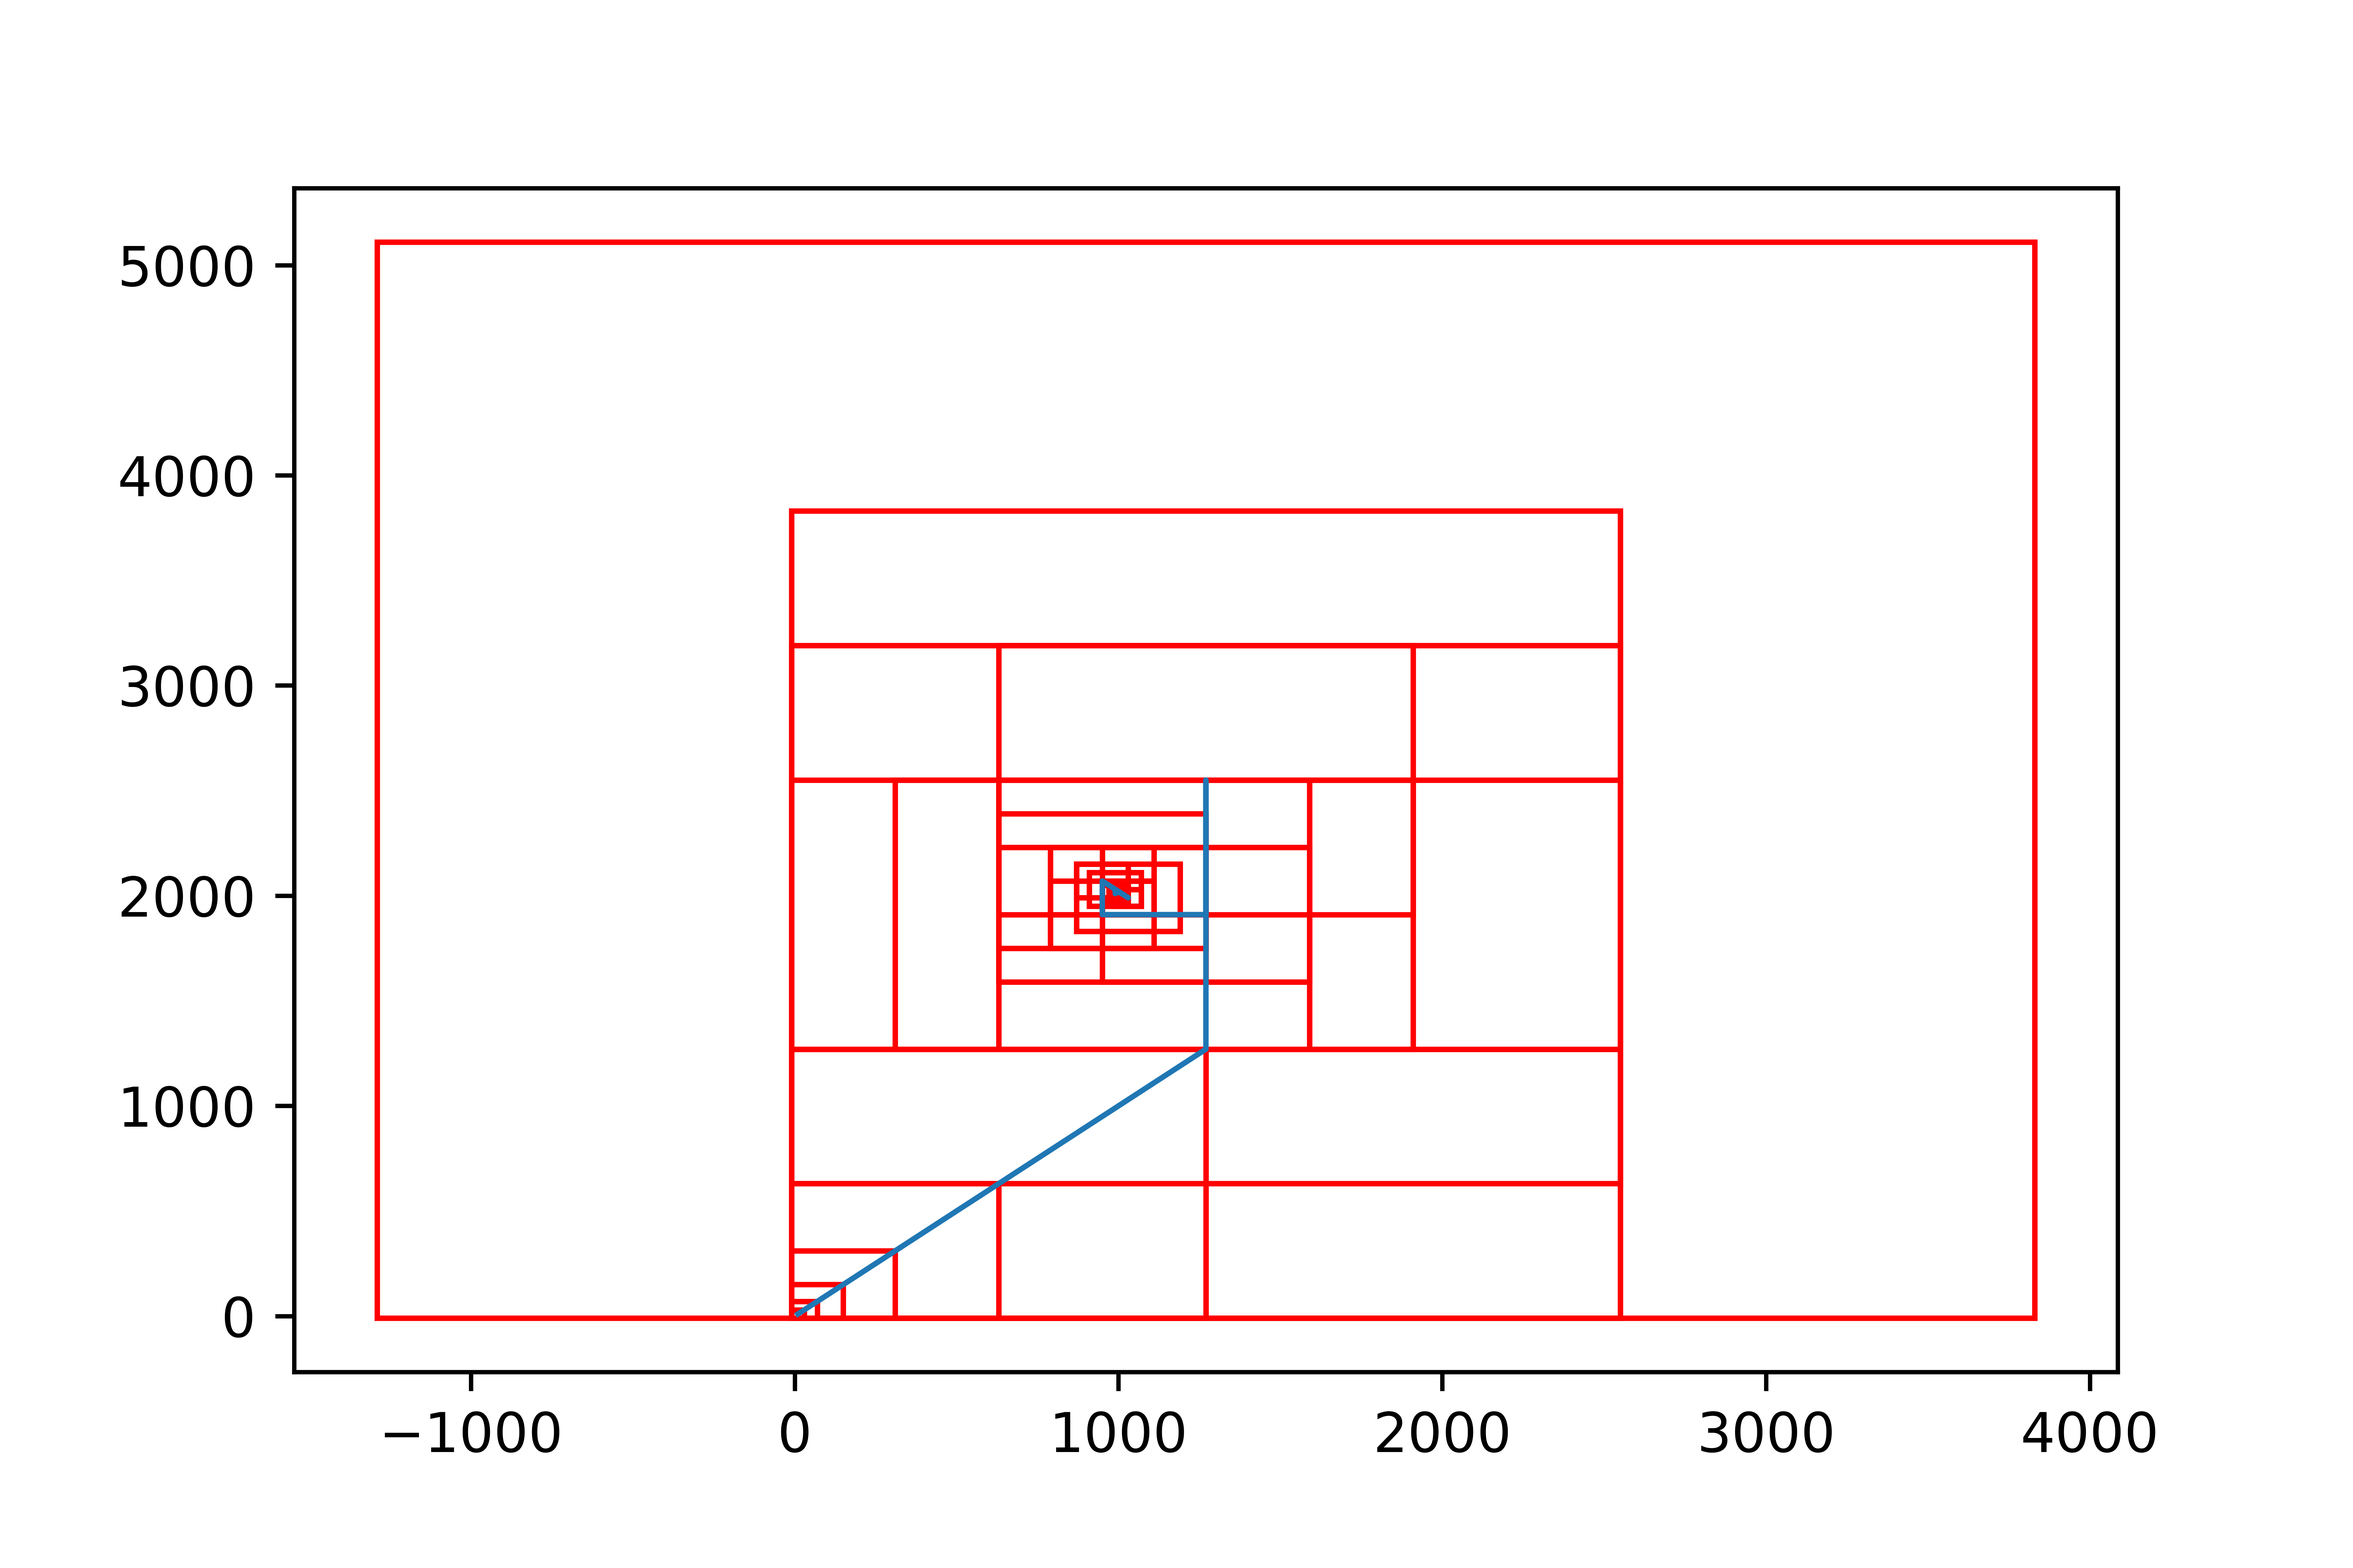
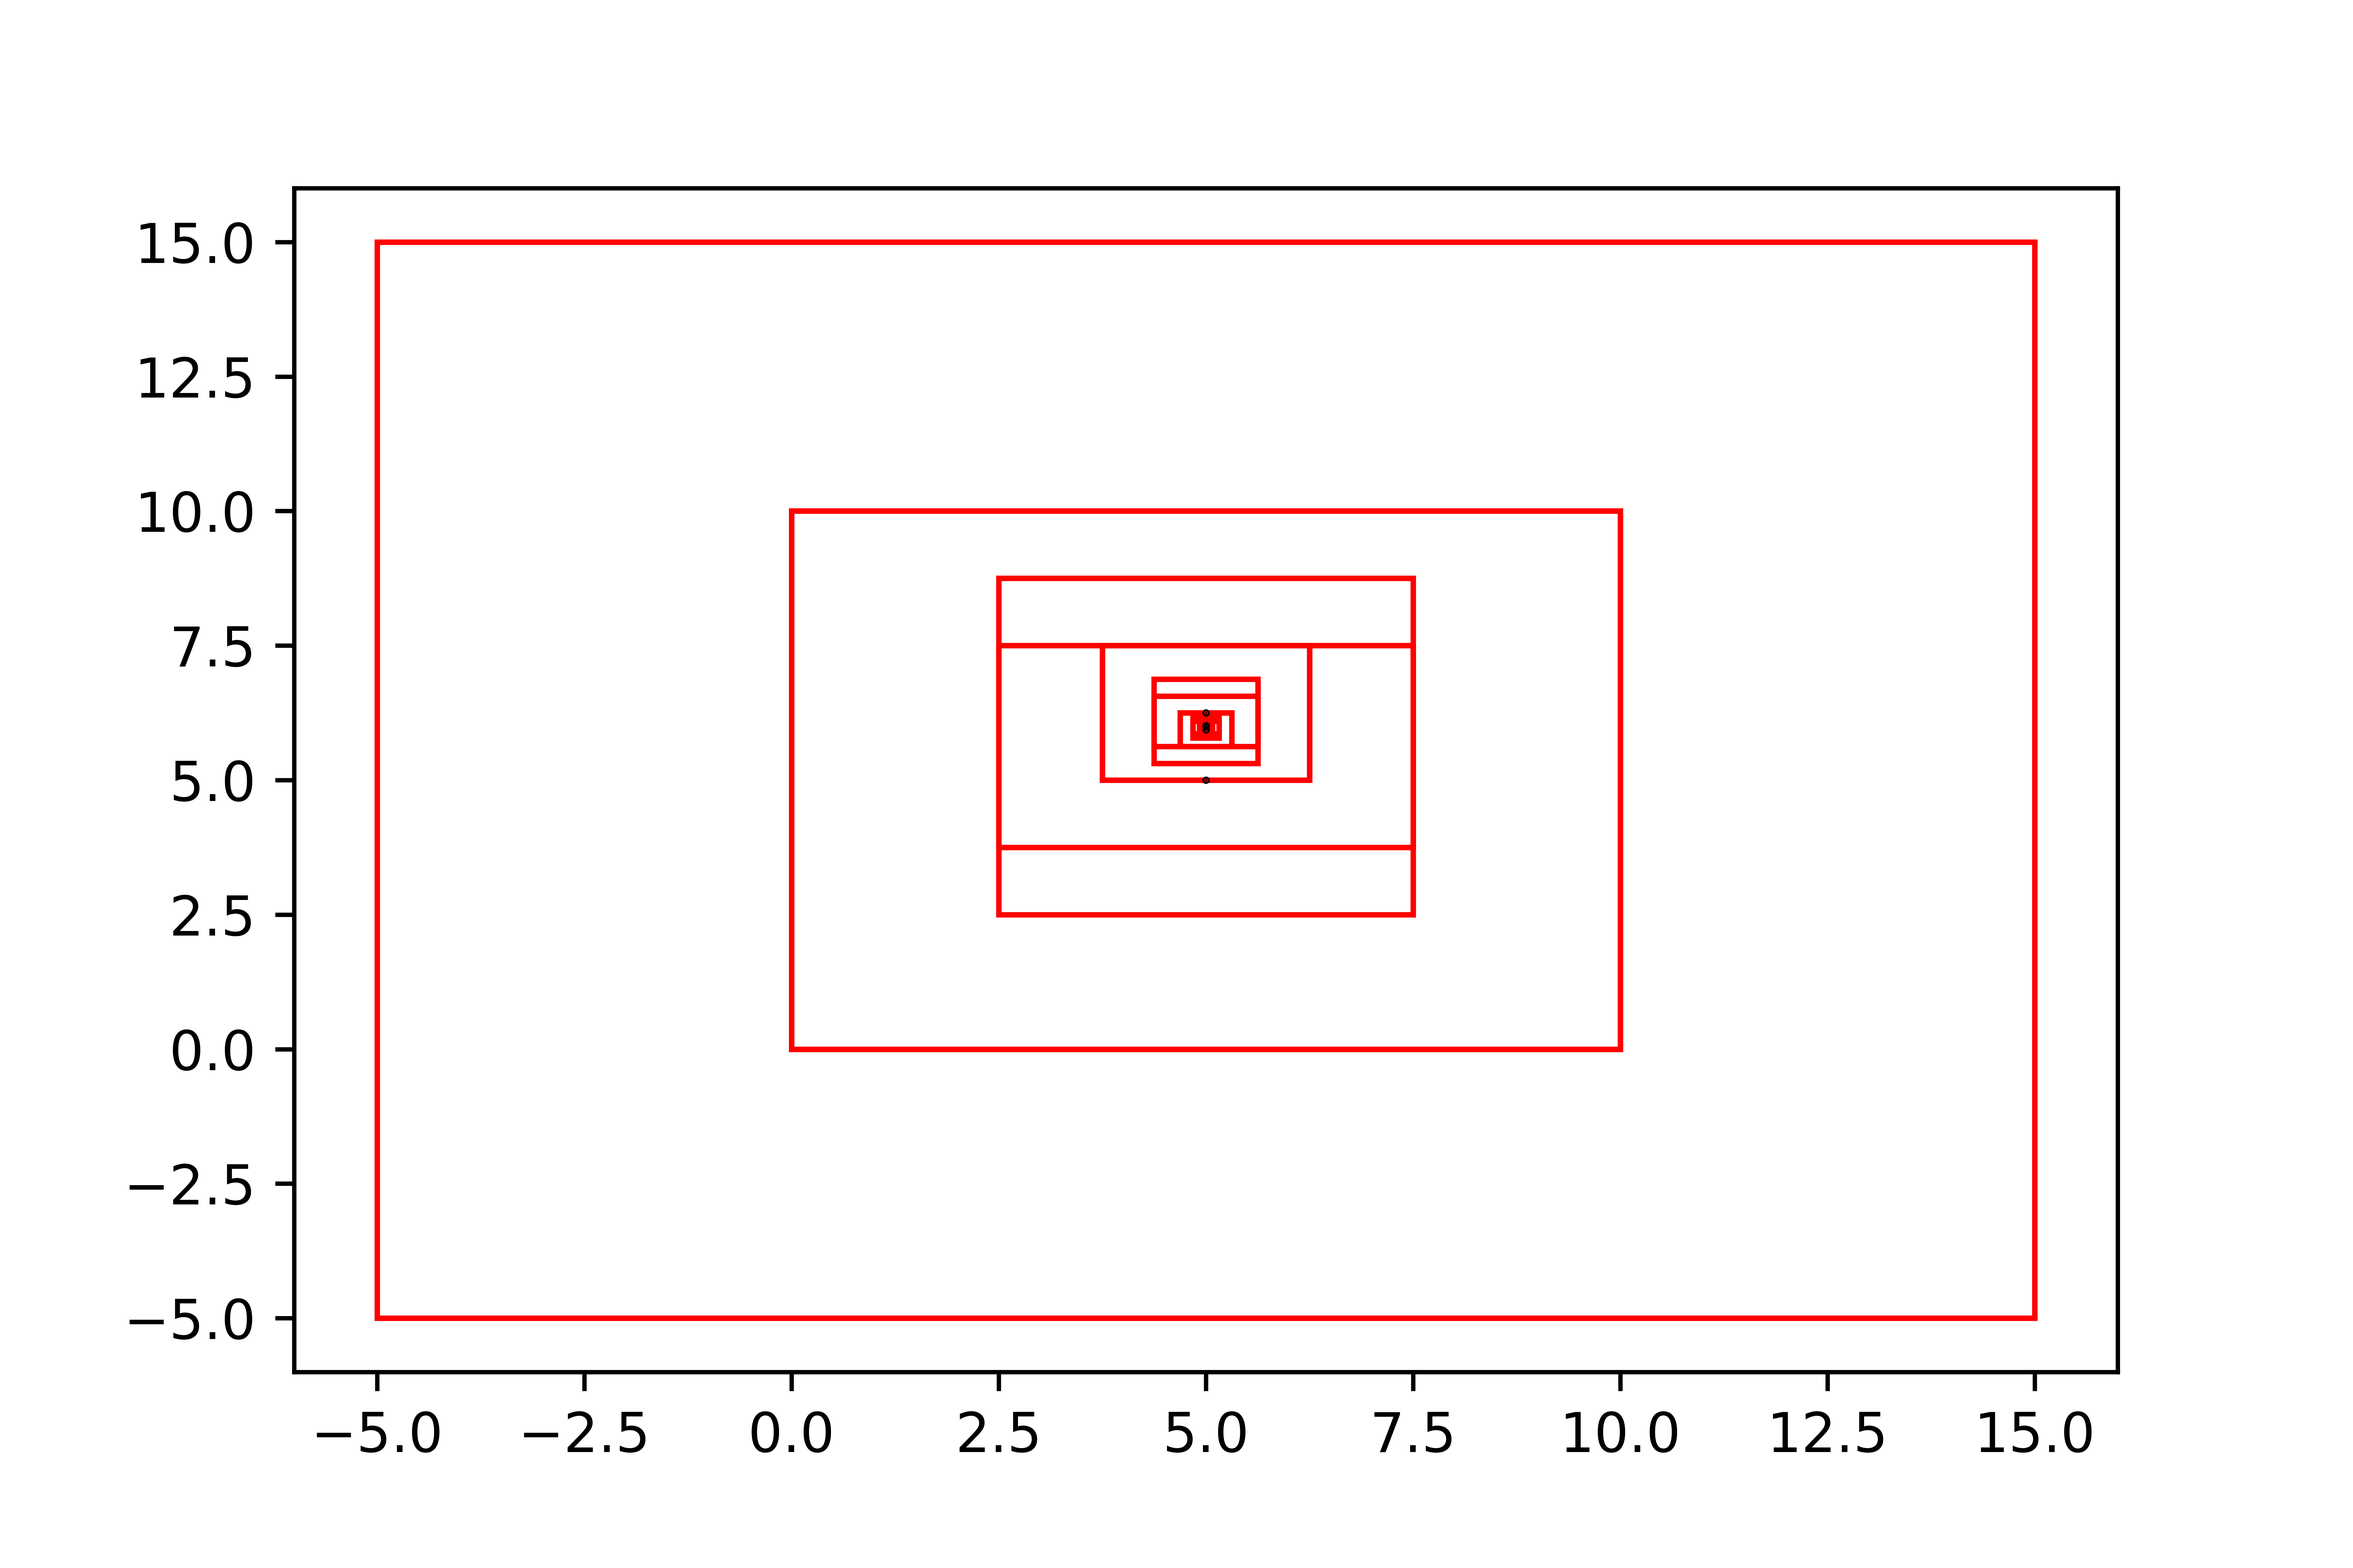
Complete grid-bubble search

diff --git a/base_psx/grid_bubble.py b/base_psx/grid_bubble.py
@@ -1,0 +1,89 @@
+import typing
+import numpy as np
+from matplotlib import pyplot as plt
+from matplotlib.patches import Rectangle
+from adjustText import adjust_text
+class GridBubble():
+    def __init__(self, loss_func: typing.Callable, radius = 10, center = (0, 0)) -> None:
+        self.radius = radius
+        self.radiuss = [radius]
+        self.points = []
+        self.losses = [1]
+        self.min_losses = []
+        self.center = center
+        self.centers = [center]
+        self.previous_center_index = 4
+        self.loss_func = loss_func
+        self.step_size = 0
+
+    def compute_points(self):
+        x, y = self.center
+        self.points.clear()
+        self.points.append((x - self.radius, y + self.radius))
+        self.points.append((x, y + self.radius))
+        self.points.append((x + self.radius, y + self.radius))
+        self.points.append((x - self.radius, y))
+        self.points.append((x, y))
+        self.points.append((x + self.radius, y))
+        self.points.append((x - self.radius, y - self.radius))
+        self.points.append((x, y - self.radius))
+        self.points.append((x + self.radius, y - self.radius))
+        return
+
+    def fit(self, learning_rate = 2, threshold = 10**(-5), limit_step = 1000):
+        if learning_rate < 1:
+            raise Exception('The learing rate must be not smaller than 1')
+        self.compute_points()
+        self.step_size = 0
+        while(self.step_size <= limit_step):
+            self.step_size += 1
+            # Compute losses
+            # This can be improve by only compute the loss
+            # for new point, old points do not need. Hope you member late :)
+            self.losses.clear()
+            for x, y in self.points:
+                self.losses.append(self.loss_func(x, y))
+            a = np.array(self.losses)
+            
+            
+            min_loss = a[np.isfinite(a)].min()
+            # print(str(self.step_size) + ': ' + str(min_loss))
+
+            self.min_losses.append(min_loss)
+            indices_min = np.where(self.losses == min_loss)[0]
+            # Update center and radius
+            # == 4 min the center is not changed
+            # Can we adapt the changed radius ratio (not fix at 2)?
+            if 4 in indices_min:
+                self.radius /= learning_rate
+            else:
+                self.center = self.points[indices_min[0]]
+                self.radius *= learning_rate
+            # Update neighboor points
+            self.compute_points()
+            self.centers.append(self.center)
+            self.radiuss.append(self.radius)
+            if (min_loss < threshold):
+                return self.center
+        return self.center
+    
+    def plot(self, path = './'):
+        for i in range(0, len(self.centers)):
+            plt.gca().add_patch(Rectangle((self.centers[i][0] - self.radiuss[i], self.centers[i][1] - self.radiuss[i]), 2*self.radiuss[i], 2*self.radiuss[i], edgecolor='red',
+                                        facecolor='none', lw=1))
+            plt.xticks(np.arange(0, np.max(self.radiuss), 5.0))
+            plt.yticks(np.arange(0, np.max(self.radiuss), 5.0))
+            plt.legend(loc='upper left')
+            if i > 0:
+                x1, y1 = self.centers[i-1]
+                x2, y2 = self.centers[i]
+                plt.arrow(x1, y1, x2 - x1, y2 - y1, head_length=.2, head_width=.2, length_includes_head=True)
+            texts = []
+            for j in range(0, i + 1):
+                texts.append(plt.text(x = self.centers[j][0] + 0.3, y = self.centers[j][1] + 0.3, s = str(j)))
+
+                plt.scatter(self.centers[j][0], self.centers[j][1], s = 1, color='black')
+            plt.title(str(i + 1) + '/' + str(len(self.centers)) + ', Center: (' + str(self.centers[i][0]) + ', ' + str(self.centers[i][1]) + '), Radius: ' +  str(self.radiuss[i]) + ', Loss: ' + str(np.around(self.min_losses[i], 2)))
+            adjust_text(texts, only_move={'points':'y', 'texts':'y'})
+            plt.savefig(path + 'Iteration ' + str(i + 1) + '.png', format='png', dpi=600)
+            plt.clf()

diff --git a/a.py b/a.py
@@ -1,0 +1,4 @@
+import moviepy.editor as mp
+
+clip = mp.VideoFileClip("a.gif")
+clip.write_videofile("a.mp4")
